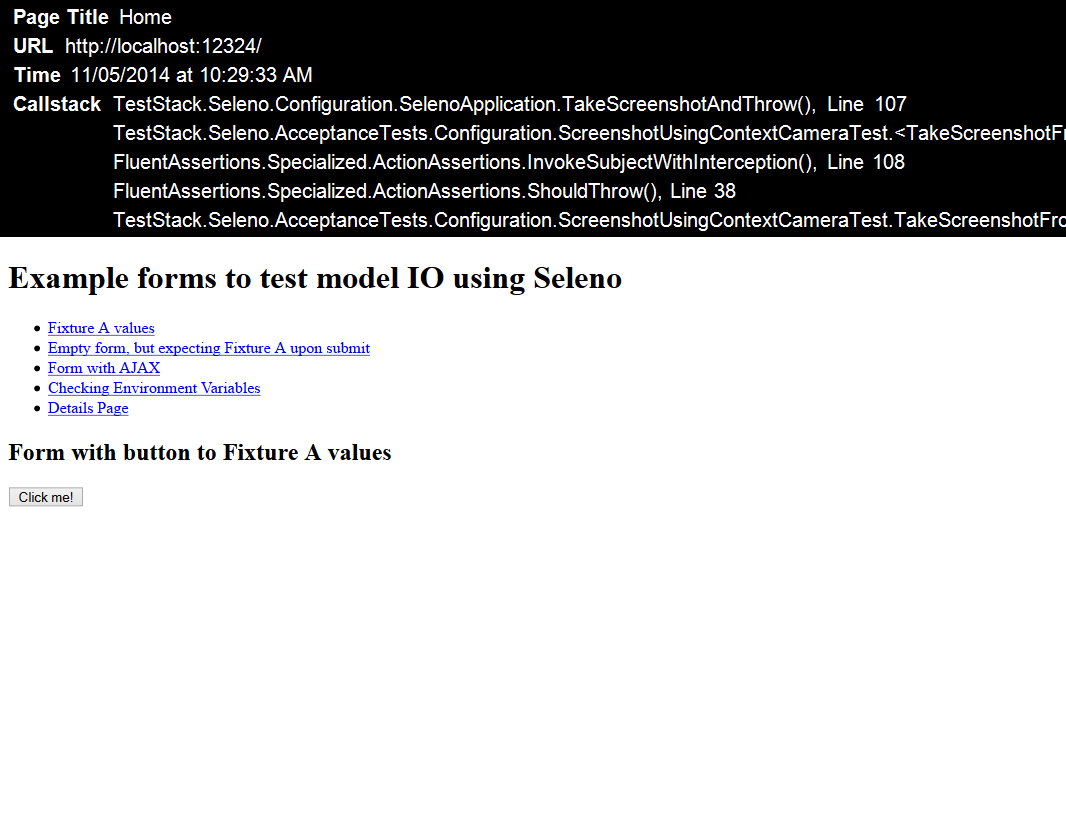
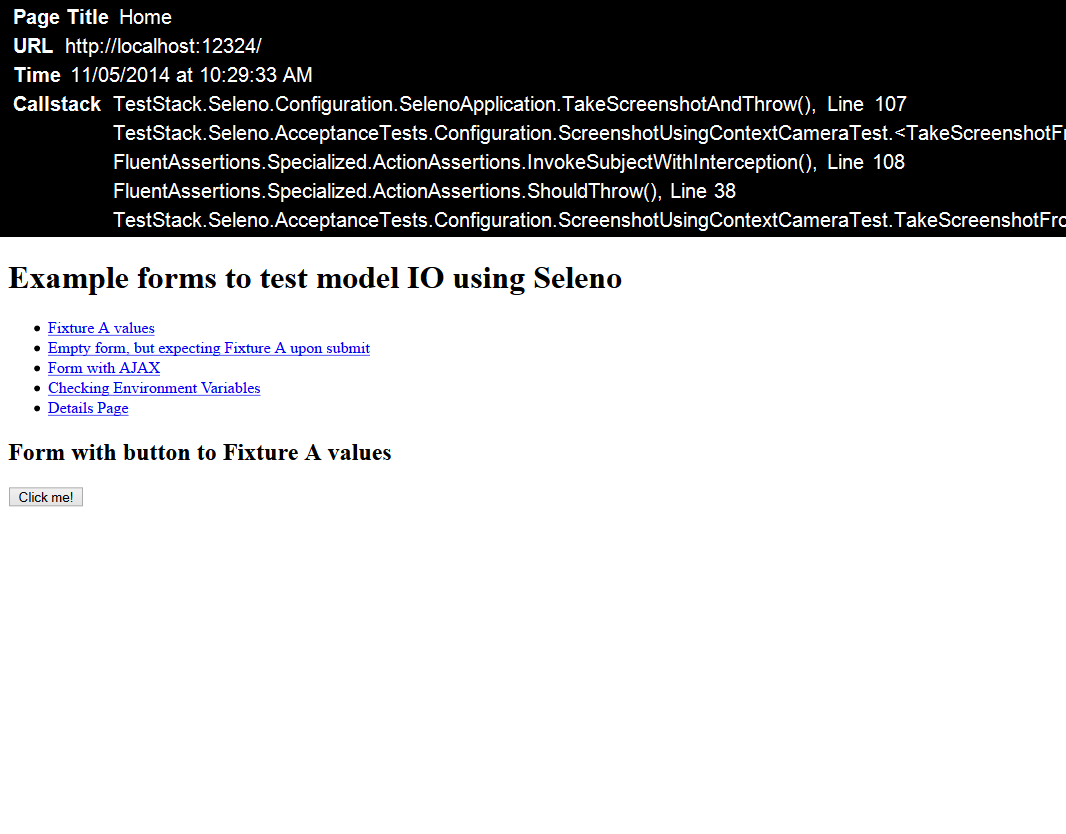
Set Browser window size to 800x600 so that the image generated is consistent

diff --git a/src/TestStack.Seleno.AcceptanceTests/Configuration/ScreenshotUsingContextCameraTest.cs b/src/TestStack.Seleno.AcceptanceTests/Configuration/ScreenshotUsingContextCameraTest.cs
@@ -87,6 +87,8 @@ namespace TestStack.Seleno.AcceptanceTests.Configuration
 
             using (new TestableSystemTime(dateTime))
             {
+                Host.Instance.Application.SetBrowserWindowSize(800, 600);
+
                 Action result = () => _host.Application.TakeScreenshotAndThrow(imageName, errorMessage);
                 result.ShouldThrow<SelenoException>()
                     .WithMessage(errorMessage);
